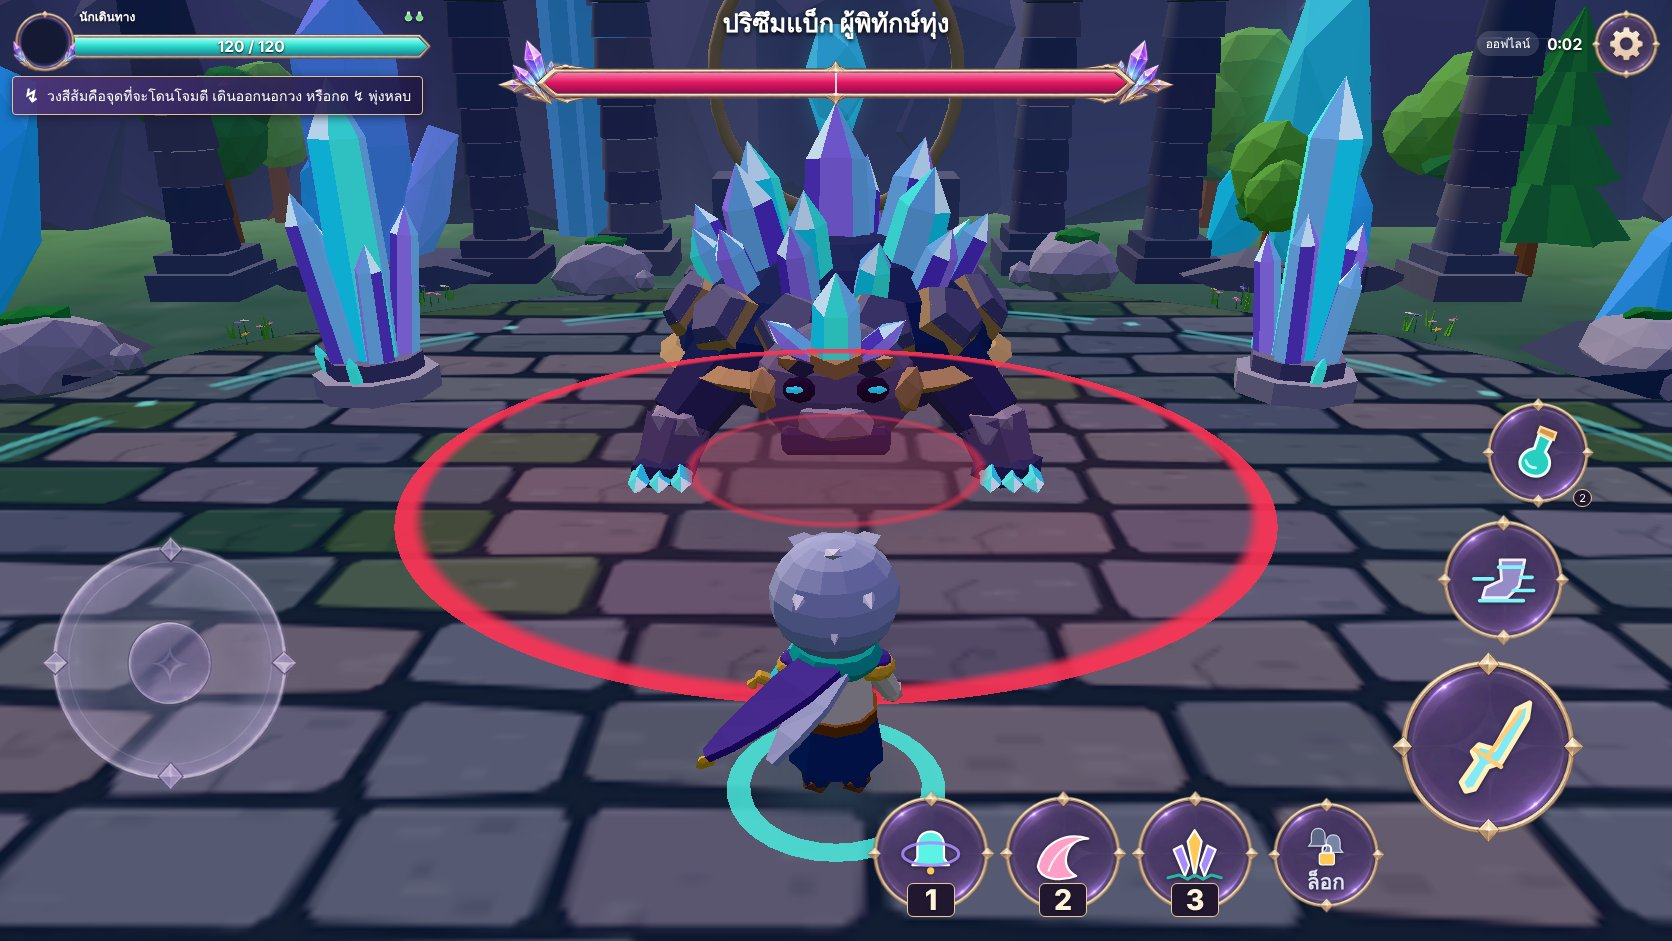
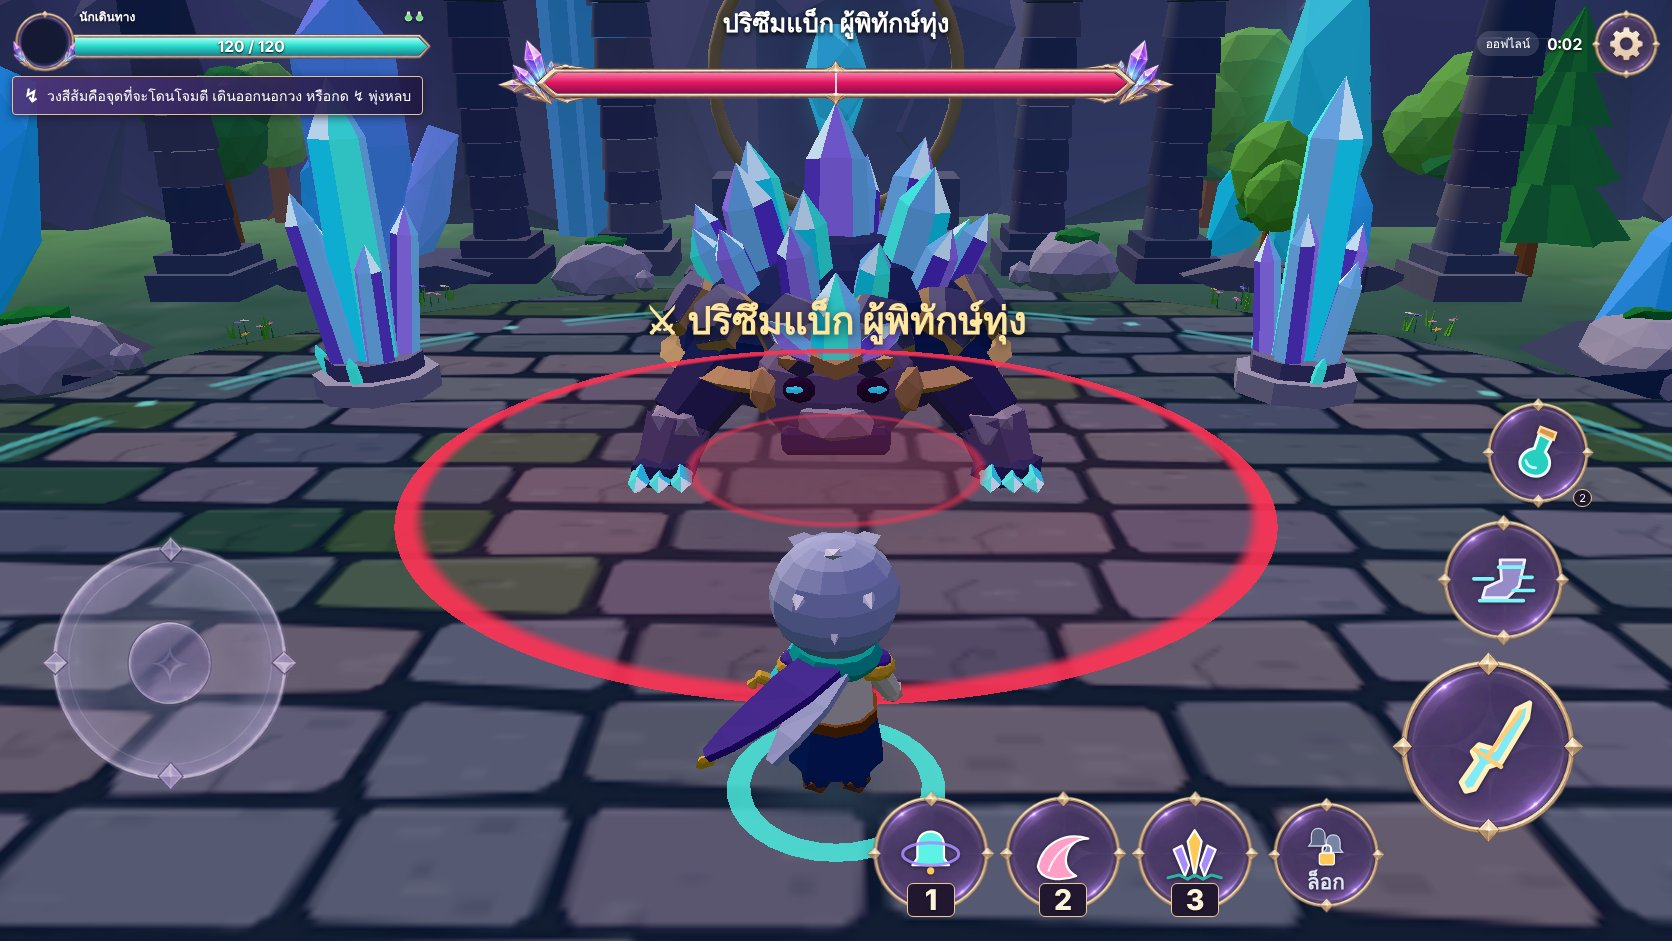
qa(tele-color): re-measure on stage1/polish eabfc35 (perf-field merged)
Before = eabfc35, after = lane/tele-color with eabfc35 merged. ROI,
grayscale and boss-face numbers are unchanged from the d9e6132 run; draw
calls are at the new perf-field level and equal before/after (boss 844
low/medium/high 54/58/99, 1672 52/56/97; plaza/pathA 43/45, 45/46).
npm test 150/150, lifecycle 20/20.

Claude-Session: https://claude.ai/code/session_01A1roa2KGrJBDidSksZdrwK

Changed region(s): [[0.3732, 0.3082, 0.622, 0.3698]]

diff --git a/docs/qa/tele-color-v01/README.md b/docs/qa/tele-color-v01/README.md
@@ -1,7 +1,8 @@
 # วงเตือน v01: แยกสีเตือนจากแสง/หมอก/พื้น (DES-006 §2 "วงเตือน: ต้องแก้")
 
 สาย `lane/tele-color` · ทีม B (Technical Art: เลือกวิธี + ต้นทุน perf) · เป้าภาพกำหนดโดยทีม A (DES-006 §2, DES-003, DES-004 §6)
-build ก่อน = `origin/stage1/polish` `d9e6132` · build หลัง = branch นี้ · seed 1 · Chromium headless + SwiftShader
+build ก่อน = `origin/stage1/polish` `eabfc35` (หลัง merge lane/perf-field) · build หลัง = branch นี้ (merge `eabfc35` แล้ว) · seed 1 · Chromium headless + SwiftShader
+วัดรอบแรกบนฐาน `d9e6132` ด้วย: ตัวเลข ROI/ขาวดำ/หน้าบอสตรงกับรอบนี้ทุกค่า ต่างกันแค่ draw calls เพราะ perf-field ลดลง (ดูหัวข้อ 6)
 **สถานะ: รอทีม A ตรวจ** · คลิปมือถือก่อนรับจริง (DES-006 §2): **ยังไม่ตรวจ**
 
 **ข้อจำกัด:** SwiftShader (GPU ซอฟต์แวร์) ไม่ใช่เครื่องจริง · สีวัดจาก framebuffer sRGB 8 บิตของ Chromium จอจริง (P3, HDR, night shift, ความสว่างจอ) ยังไม่ได้วัด
@@ -37,7 +38,7 @@ build ก่อน = `origin/stage1/polish` `d9e6132` · build หลัง = br
 ## 3. วิธีวัด: ROI เฉพาะขอบวง (`tools/qa/tele-roi.mjs`)
 ```
 npm run build                                    # หลัง
-git checkout d9e6132 && npm run build && cp -r dist <dist-before> && git checkout -   # ก่อน
+git archive eabfc35 | tar -x -C <base> && (cd <base> && ln -s <repo>/node_modules && npx vite build)   # ก่อน: <base>/dist
 node tools/qa/tele-roi.mjs <out> --dist <dist>  --tag <before|after> --tiers low,medium,high --only circle,fan,dash,circle-vfx
 node tools/qa/stage1-shots.mjs <out> --tag <tag> --only boss-circle,boss-fan,boss-dash          # ภาพมาตรฐาน + draw calls
 ```
@@ -82,7 +83,7 @@ hex เป้า: #FF3355 hue 350° S 0.80 V 1.00 · #FF7A1A hue 25° S 0.90 V 1
 **สีอุ่นที่สดที่สุด** (S·V = max−min, C* = chroma CIELAB; สีอุ่น = hue 320–50° และ V > 0.35; ไม่นับพื้นที่ของวงเตือน)
 | ท่า | ขอบ S·V มัธยฐาน ก่อน → หลัง | สีอุ่นอื่นในฉาก S·V สูงสุด | ขอบ C* ก่อน → หลัง | สีอุ่นอื่นในฉาก C* สูงสุด | สดที่สุดในฉาก 3D | HUD S·V (C*) สูงสุด | สดที่สุดบนจอรวม HUD |
 |---|---|---|---|---|---|---|---|
-| slam | 0.14 → **0.72** | 0.68 | 14.6 → **74.4** | 64.8 | ไม่ → **ใช่** (ทั้ง 6 ภาพ) | 0.77–0.78 (74.3–74.7) | **ไม่** (แถบ HP บอส) |
+| slam | 0.14 → **0.72** | 0.68 | 14.6 → **74.4** | 64.8 | ไม่ → **ใช่** (ทั้ง 6 ภาพ) | 0.77–0.78 (74.1–74.7) | **ไม่** (แถบ HP บอส) |
 | sweep | 0.13 → **0.80** | 0.68 | 13.0 → **75.1** | 64.8 | ไม่ → **ใช่** (6/6) | 0.77–0.78 | **ใช่** |
 | charge | 0.23 → **0.77** | 0.68 | 23.0 → **78.4** | 64.8 | ไม่ → **ใช่** (6/6) | 0.77–0.78 | **ไม่/เสมอ** (แถบ HP บอส) |
 - สีอุ่นอื่นในฉากที่สดที่สุดคือทอง (ขอบเกราะ/แหวนศาล) S·V 0.68
@@ -108,21 +109,22 @@ hex เป้า: #FF3355 hue 350° S 0.80 V 1.00 · #FF7A1A hue 25° S 0.90 V 1
 ## 6. Draw calls / triangles (เฟรมเกม `renderer.info.render`)
 | เฟรม | low ก่อน → หลัง | medium ก่อน → หลัง | high ก่อน → หลัง |
 |---|---|---|---|
-| boss-circle / fan / dash 844 | 97 → **97** (34347 tris เท่ากัน) | 108 → **108** (53697) | 208 → **208** (121869) |
-| boss-circle / fan / dash 1672 | 93 → **93** (34129) | 104 → **104** (53479) | 204 → **204** (121651) |
-| slam + Chime VFX 844 / 1672 | 98 / 94 → **98 / 94** | 109 / 105 → **109 / 105** | 209 / 205 → **209 / 205** |
-| plaza / pathA 844 (วง puffcap + เส้นธอร์นลิง) | 146 / 152 → **146 / 152** | 152 / 155 → **152 / 155** | – |
-ค่าเดียวกันจาก `stage1-shots.mjs` และ `tele-roi.mjs` และตรงกับ R0 baseline ทุกภาพ
+| boss-circle / fan / dash 844 | 54 → **54** (34569 tris เท่ากัน) | 58 → **58** (53919) | 99 → **99** (122091) |
+| boss-circle / fan / dash 1672 | 52 → **52** (34129) | 56 → **56** (53479) | 97 → **97** (121651) |
+| slam + Chime VFX 844 / 1672 | 55 / 53 → **55 / 53** | 59 / 57 → **59 / 57** | 100 / 98 → **100 / 98** |
+| plaza / pathA 844 (วง puffcap + เส้นธอร์นลิง) | 43 / 45 → **43 / 45** | 45 / 46 → **45 / 46** | – |
+ได้ค่าเดียวกันจากทั้ง `stage1-shots.mjs` และ `tele-roi.mjs` · บนฐานเดิม `d9e6132` (ก่อน perf-field) ก่อน → หลังก็เท่ากันทุกภาพ: boss 844 low/medium/high 97/108/208, 1672 93/104/204, plaza/pathA 146/152 (low) 152/155 (medium)
 
 ## 7. ภาพ (JPEG q85)
 - **หลัง (สีจริง, ขนาดเต็ม):** `shots/boss-{circle,fan,dash}-{844,1672}-{low,medium}.jpg`
-- **ก่อน (สีจริง, เฟรมเดียวกัน):** `../stage1-v01/r0-baseline/shots/boss-{circle,fan,dash}-{844,1672}-{low,medium}.jpg` ไม่ได้คัดลอกซ้ำเพราะเป็น commit, เครื่องมือ, seed และ tick เดียวกัน ตรวจแล้ว draw calls/tris/ความคืบหน้าวงตรงกันทุกภาพ เมื่อเทียบกับรันใหม่ของ build ก่อนได้ PSNR 32–42 dB ส่วนที่ต่างเกินสัญญาณรบกวนจาก JPEG มีแค่ DOM ได้แก่ข้อความแนะนำ แบนเนอร์ชื่อบอส และแถบบอสที่เลื่อนเข้า (CSS ตามเวลาจริง ตามที่ R0 README บันทึกไว้) ฉาก 3D ตรงกัน ส่วนตัวเลข ROI ทั้งก่อนและหลังวัดจากรันใหม่ทั้งคู่
+- **ก่อน (สีจริง, เฟรมเดียวกัน):** `../stage1-v01/r0-baseline/shots/boss-{circle,fan,dash}-{844,1672}-{low,medium}.jpg` ไม่ได้คัดลอกซ้ำ R0 ถ่ายบน `d9e6132` ด้วยเครื่องมือ, seed และ tick เดียวกัน · เทียบ PNG ของ `d9e6132` กับ `eabfc35` แล้ว นอกส่วน DOM ไม่มีพิกเซลใดต่างเกิน 30 ระดับ (ตรงกับที่ perf-field รายงานว่า pixel-identical) ส่วนที่ต่างกันมีแค่ DOM ได้แก่ข้อความแนะนำ แบนเนอร์ชื่อบอส แถบบอสที่เลื่อนเข้า และการจางของปุ่ม (CSS ตามเวลาจริง ตามที่ R0 README บันทึกไว้) · เทียบ R0 กับรันใหม่ได้ PSNR 32–42 dB ซึ่งเป็นสัญญาณรบกวนจาก JPEG บวกส่วน DOM ดังกล่าว · ตัวเลข ROI ทั้งก่อนและหลังวัดจากรันใหม่ทั้งคู่
 - **ขาวดำ ก่อน | หลัง:** `gray/boss-{circle,fan,dash}-{844,1672}-{low,medium}-gray.jpg` (1672 ย่อครึ่ง)
 - **ครอปหน้าบอส ก่อน | หลัง:** `crops/boss-*-1672-medium-face.jpg` (ขนาดจริง), `crops/boss-*-844-medium-face.jpg`
 - **VFX ใต้ขอบ:** `crops/boss-circle-vfx-844-medium.jpg` · **มาสก์ ROI:** `crops/roi-mask-844-medium.jpg`
 
 ## 8. ทดสอบ
-`npm test` 115/115 · `npm run typecheck` ผ่าน · `npm run build` ผ่าน · `node tools/qa/lifecycle.mjs http://localhost:8080` 20/20 · tele-roi 48 เฟรม (ก่อน 24 + หลัง 24) errors 0 · stage1-shots 24 เฟรม errors 0
+หลัง merge `eabfc35`: `npm test` 150/150 · `npm run typecheck` ผ่าน · `npm run build` ผ่าน · `node tools/qa/lifecycle.mjs http://localhost:8080` 20/20 · tele-roi 48 เฟรม (ก่อน 24 + หลัง 24) errors 0 · stage1-shots 24 + 8 (plaza/pathA) เฟรม errors 0
+ก่อน merge (ฐาน `d9e6132`): test 115/115, lifecycle 20/20, ROI และ stage1-shots ครบเหมือนกัน errors 0
 
 ## 9. สิ่งที่ยังไม่ทราบ / งานค้าง
 - **คลิปมือถือจริง (DES-006 §2 ขอให้ส่งก่อนรับจริง): ยังไม่ตรวจ** สีบนจอ OLED/P3 และในแดดยังไม่ทราบ
